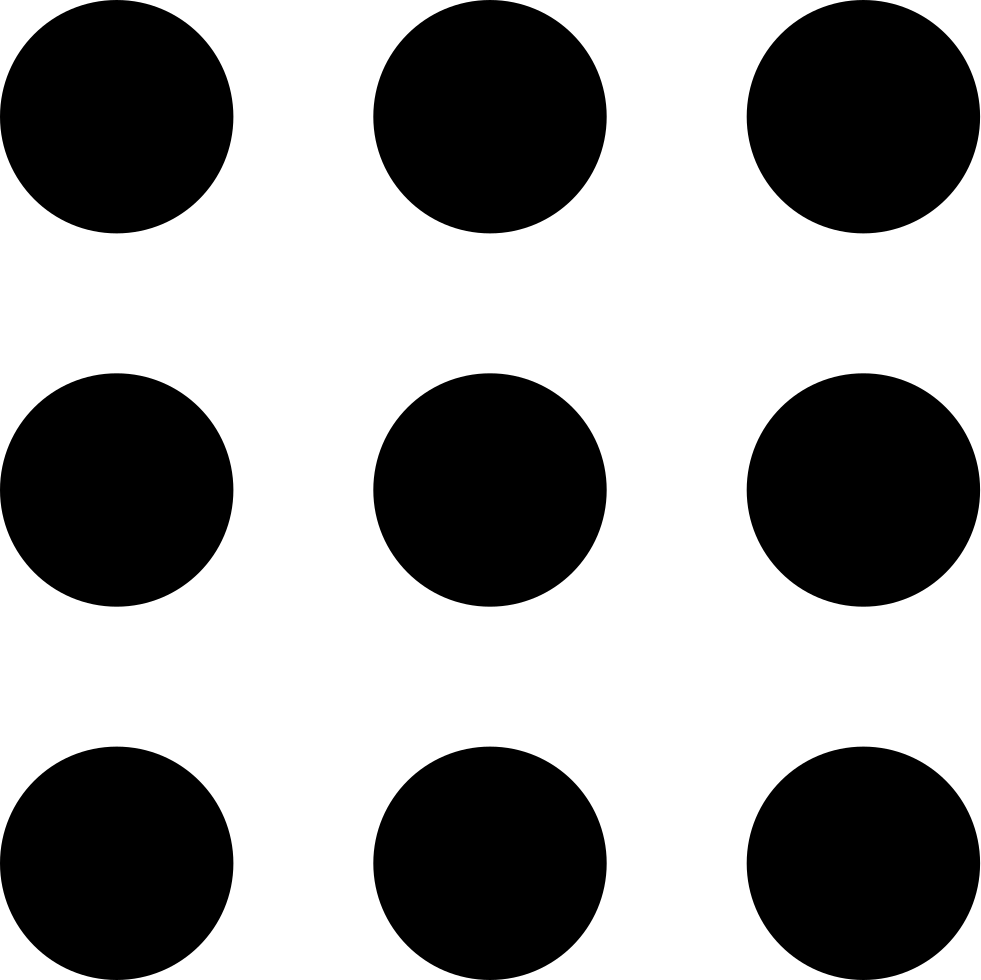
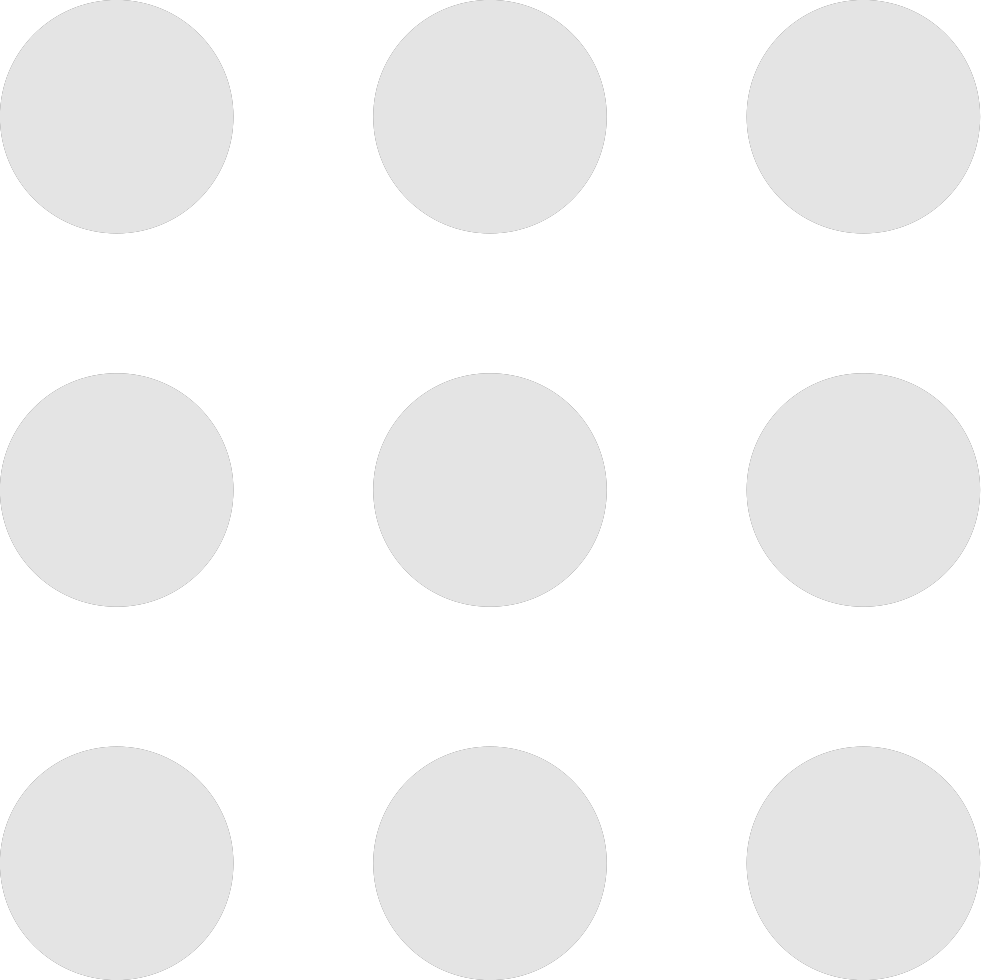
finish

diff --git a/index.html b/index.html
@@ -3,13 +3,16 @@
     <head>
        <title>Google</title>
        <link rel="shortcut icon" href="google.png" type="image/x-icon">
+       <meta name="viewport" content="width=device-width, initial-scale=1.0">
+       <link href="https://cdn.jsdelivr.net/npm/bootstrap@5.2.0/dist/css/bootstrap.min.css" rel="stylesheet" integrity="sha384-gH2yIJqKdNHPEq0n4Mqa/HGKIhSkIHeL5AyhkYV8i59U5AR6csBvApHHNl/vI1Bx" crossorigin="anonymous">
+       <link rel="stylesheet" href="style.css">
     </head>
-    <link href="https://cdn.jsdelivr.net/npm/bootstrap@5.2.0/dist/css/bootstrap.min.css" rel="stylesheet" integrity="sha384-gH2yIJqKdNHPEq0n4Mqa/HGKIhSkIHeL5AyhkYV8i59U5AR6csBvApHHNl/vI1Bx" crossorigin="anonymous">
-    <link rel="stylesheet" href="style.css">
-    <body style="background: #202124;">
+    <body>
         <div id="topop">
             <a class="topr" href="advanced.html">Advanced</a>
             <a class="topr" href="image.html">Image</a>
+            <img id="dots" src="img.png" alt="">
+            <a href="https://myaccount.google.com"><img id="avatar" src="avatar.png" alt=""></a>
         </div>
         <div class="logo">
             <img src="googlelogo_light_color_272x92dp.png" alt="Google">

diff --git a/style.css b/style.css
@@ -1,3 +1,6 @@
+body{
+    background: #202124;
+}
 .main{            
     position: fixed;
     top: 50%;
@@ -126,4 +129,12 @@ h1{
     bottom: 0;
     left: 0;
     right: 0;
+}
+#dots{
+    width: 2%;
+    padding-right: 15px;
+}
+#avatar{
+    width: 3%;
+    padding-right: 15px;
 }
